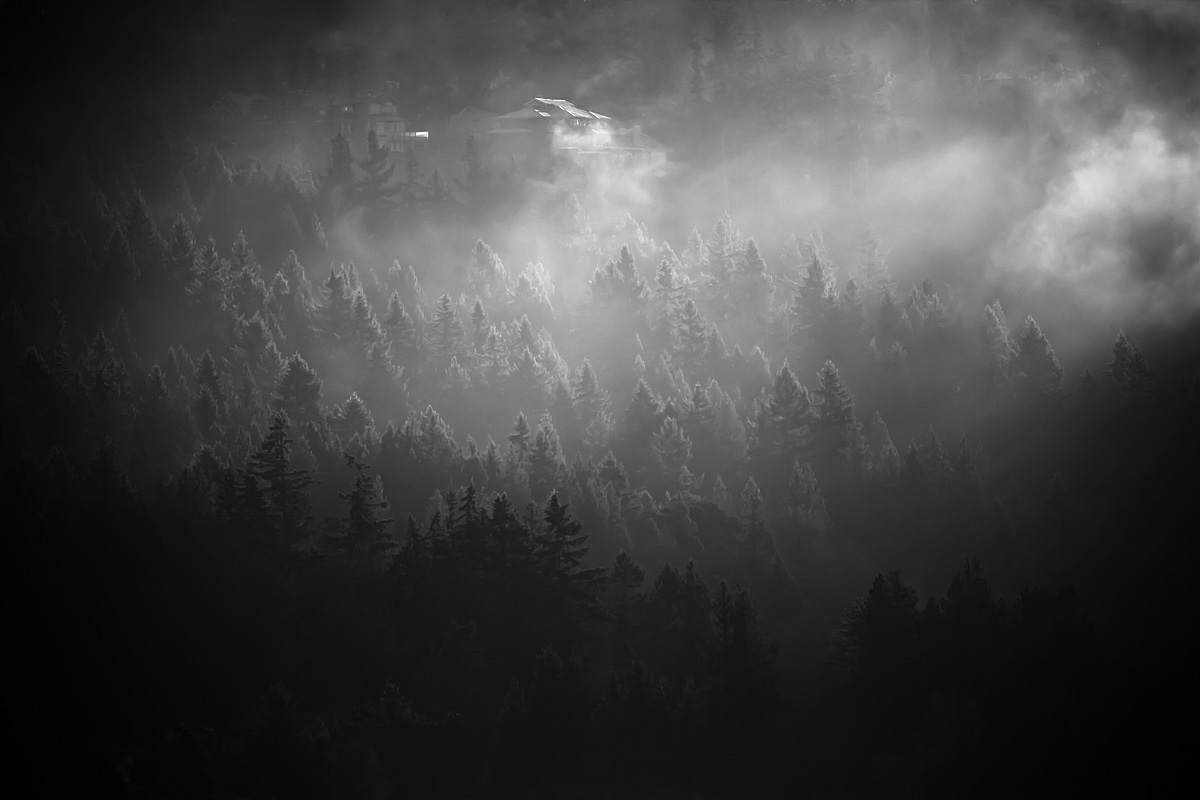
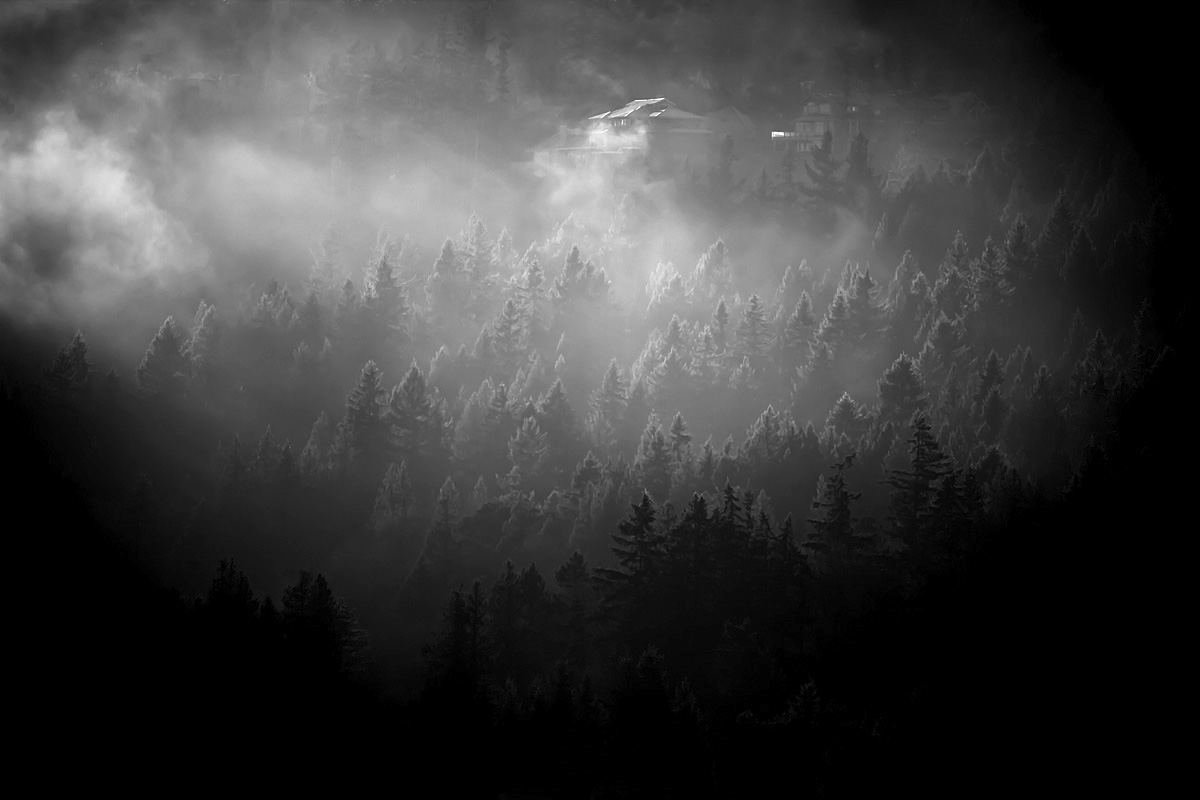
minor edits: adjusted bkgd img contrast, made aboutbkgd  div smaller, changed Works to Work Samples

diff --git a/assets/css/style.css b/assets/css/style.css
@@ -5,7 +5,7 @@
  * Project Name: NYC Design
  * Version: 1.0
  * Date: 04-20-2014
- * URL: 
+ * URL:
  */
 
 
@@ -109,7 +109,7 @@ h1, h2, h3, h4, h5, h6 {
 	background-position: center center;
 	min-height: 650px;
 	width: 100%;
-	
+
     -webkit-background-size: 100%;
     -moz-background-size: 100%;
     -o-background-size: 100%;
@@ -161,7 +161,7 @@ h1, h2, h3, h4, h5, h6 {
 	margin-left: 10px;
 }
 
-#workwrap {	
+#workwrap {
 	background: url(../img/work.jpg) no-repeat center top;
 	margin-top: -70px;
 	padding-top: 250px;
@@ -170,7 +170,7 @@ h1, h2, h3, h4, h5, h6 {
 	background-position: center center;
 	min-height: 650px;
 	width: 100%;
-	
+
     -webkit-background-size: 100%;
     -moz-background-size: 100%;
     -o-background-size: 100%;
@@ -196,16 +196,16 @@ h1, h2, h3, h4, h5, h6 {
 	color: #ffffff
 }
 
-#aboutwrap {	
+#aboutwrap {
 	background: url(../img/about.jpg) no-repeat center top;
 	margin-top: -70px;
 	padding-top: 250px;
 	text-align:center;
 	background-attachment: relative;
 	background-position: center center;
-	min-height: 550px;
+	min-height: 250px;
 	width: 100%;
-	
+
     -webkit-background-size: 100%;
     -moz-background-size: 100%;
     -o-background-size: 100%;

diff --git a/index.html b/index.html
@@ -20,7 +20,7 @@
     ga('send', 'pageview');
 
     </script>
-      
+
     <!-- Bootstrap core CSS -->
     <link href="assets/css/bootstrap.css" rel="stylesheet">
 
@@ -56,7 +56,7 @@
           <ul class="nav navbar-nav navbar-right">
             <li class="active"><a href="index.html">Home</a></li>
             <li><a href="about.html">About</a></li>
-            <li><a href="#works">Works</a></li>
+            <li><a href="#works">Work Samples</a></li>
           </ul>
         </div><!--/.nav-collapse -->
       </div>

diff --git a/about.html b/about.html
@@ -56,7 +56,7 @@
           <ul class="nav navbar-nav navbar-right">
             <li><a href="index.html">Home</a></li>
             <li class="active"><a href="about.html">About</a></li>
-            <li><a href="index.html#works">Works</a></li>
+            <li><a href="index.html#works">Work Samples</a></li>
           </ul>
         </div><!--/.nav-collapse -->
       </div>

diff --git a/newtabchrome.html b/newtabchrome.html
@@ -56,7 +56,7 @@
           <ul class="nav navbar-nav navbar-right">
             <li class="active"><a href="index.html">Home</a></li>
             <li><a href="about.html">About</a></li>
-            <li><a href="index.html#works">Works</a></li>
+            <li><a href="index.html#works">Work Samples</a></li>
           </ul>
         </div><!--/.nav-collapse -->
       </div>

diff --git a/prims.html b/prims.html
@@ -56,7 +56,7 @@
           <ul class="nav navbar-nav navbar-right">
             <li class="active"><a href="index.html">Home</a></li>
             <li><a href="about.html">About</a></li>
-            <li><a href="index.html#works">Works</a></li>
+            <li><a href="index.html#works">Work Samples</a></li>
           </ul>
         </div><!--/.nav-collapse -->
       </div>

diff --git a/productquest.html b/productquest.html
@@ -56,7 +56,7 @@
           <ul class="nav navbar-nav navbar-right">
             <li class="active"><a href="index.html">Home</a></li>
             <li><a href="about.html">About</a></li>
-            <li><a href="index.html#works">Works</a></li>
+            <li><a href="index.html#works">Work Samples</a></li>
           </ul>
         </div><!--/.nav-collapse -->
       </div>

diff --git a/README.md b/README.md
@@ -4,4 +4,5 @@ This is my personal portfolio site. The live version can be found at [reillyvill
 
 ![portfolio-screenshot](./portfolio.png)
 
-The theme is a Wordpress theme called Instant from [blacktie.co](http://blacktie.co) designed by Carlos Alvarez.
+
+This site uses a Wordpress theme called Instant from [blacktie.co](http://blacktie.co) designed by [Carlos Alvarez](http://www.alvarez.is/).
